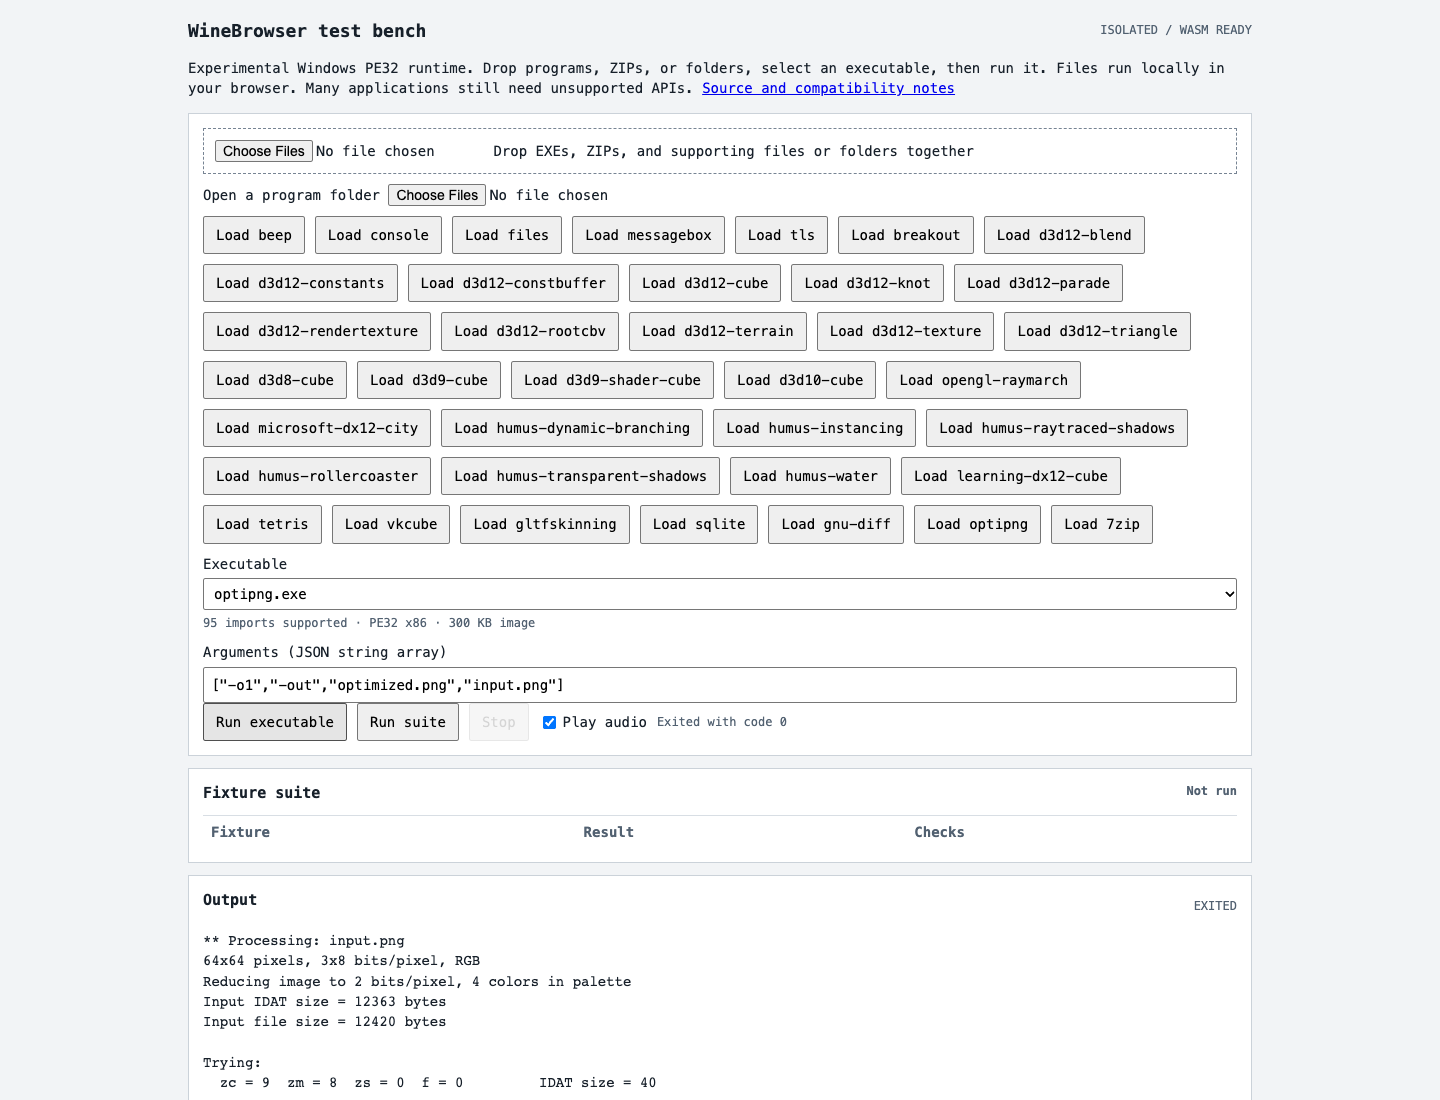
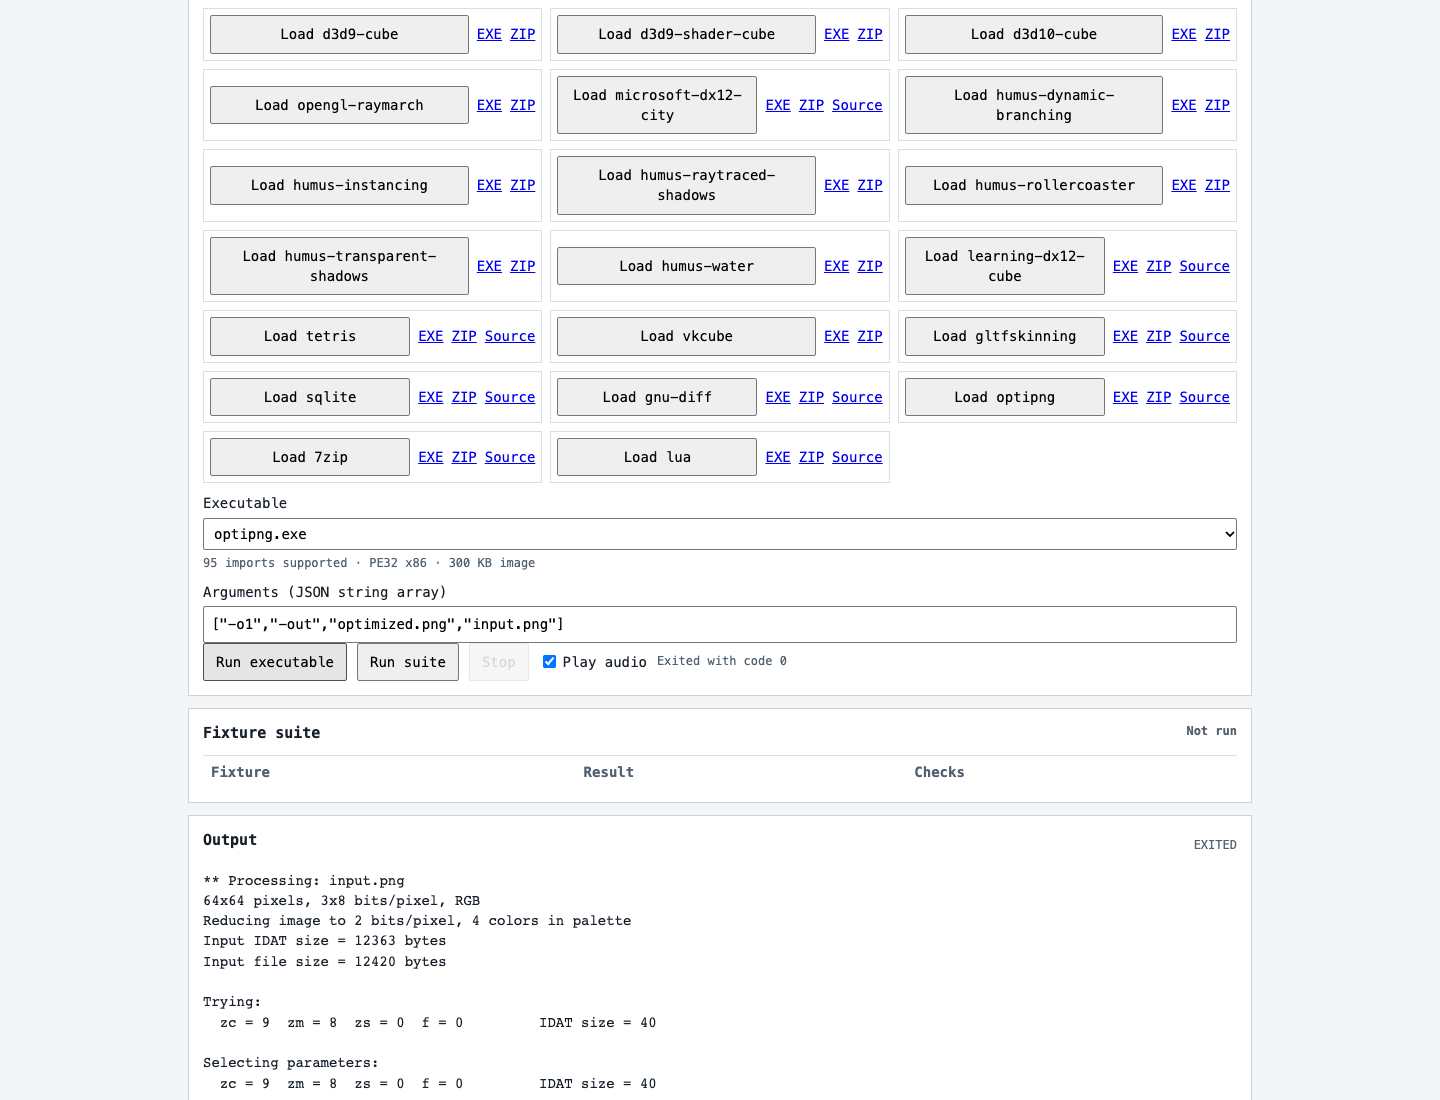
Verify integrated FOSS catalog and preserve existing graphics acceptance

diff --git a/src/runtime.js b/src/runtime.js
@@ -246,7 +246,14 @@ export class Runtime {
       this.apiNames.add(importKey(entry.dll, entry.name));
       if (this.apiTrace.length < 2048) this.apiTrace.push(importKey(entry.dll, entry.name));
       this.recordApi(importKey(entry.dll, entry.name), argument);
-      response = await handler(this, argument);
+      try {
+        response = await handler(this, argument);
+      } catch (error) {
+        const name = importKey(entry.dll, entry.name);
+        if (error instanceof Error && !error.message.startsWith(name + ':'))
+          error.message = `${name}: ${error.message}`;
+        throw error;
+      }
     }
     const { result, resultHigh, argc, convention = 'stdcall', jumpTo } = response;
     if (convention !== 'stdcall' && convention !== 'cdecl')

diff --git a/docs/demo-downloads.md b/docs/demo-downloads.md
@@ -17,6 +17,9 @@ CesiumMan model and SPIR-V shaders required to run it.
 
 | Demo                      | Executable                                                                                                    | Complete package                                                                                              |
 | ------------------------- | ------------------------------------------------------------------------------------------------------------- | ------------------------------------------------------------------------------------------------------------- |
+| gnu-diff                  | [EXE](https://evangit2.github.io/winebrowser/examples/gnu-diff/diff.exe)                                      | [ZIP with companion DLLs](https://evangit2.github.io/winebrowser/examples/gnu-diff/gnu-diff.zip)              |
+| optipng                   | [EXE](https://evangit2.github.io/winebrowser/examples/optipng/optipng.exe)                                    | [ZIP](https://evangit2.github.io/winebrowser/examples/optipng/optipng.zip)                                    |
+| 7zip                      | [EXE](https://evangit2.github.io/winebrowser/examples/7zip/7zr.exe)                                           | [ZIP](https://evangit2.github.io/winebrowser/examples/7zip/7zip.zip)                                          |
 | gltfskinning              | [EXE](https://evangit2.github.io/winebrowser/examples/gltfskinning/bin/gltfskinning.exe)                      | [ZIP](https://evangit2.github.io/winebrowser/examples/gltfskinning/gltfskinning.zip)                          |
 | humus-dynamic-branching   | [EXE](https://evangit2.github.io/winebrowser/examples/humus-dynamic-branching/DynamicBranching.exe)           | [ZIP](https://evangit2.github.io/winebrowser/examples/humus-dynamic-branching/DynamicBranching.zip)           |
 | humus-instancing          | [EXE](https://evangit2.github.io/winebrowser/examples/humus-instancing/Instancing.exe)                        | [ZIP](https://evangit2.github.io/winebrowser/examples/humus-instancing/Instancing.zip)                        |
